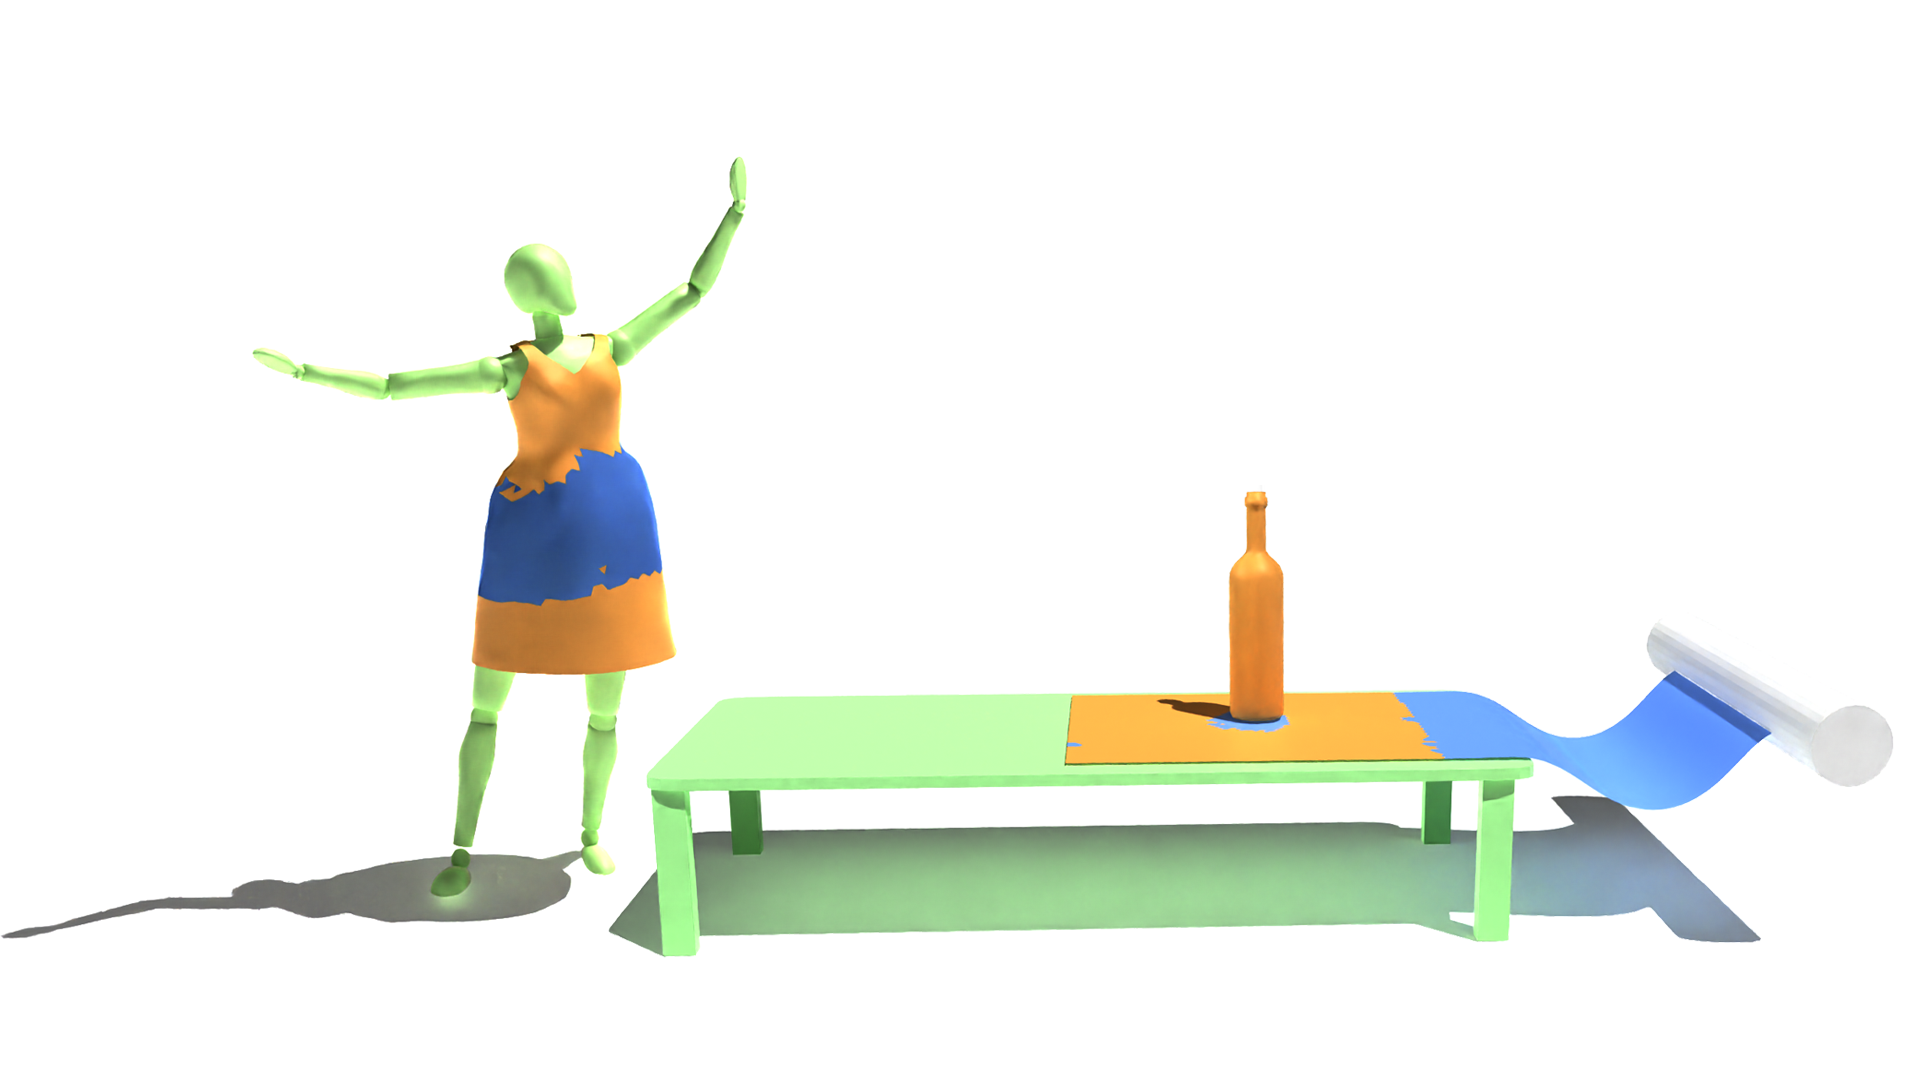
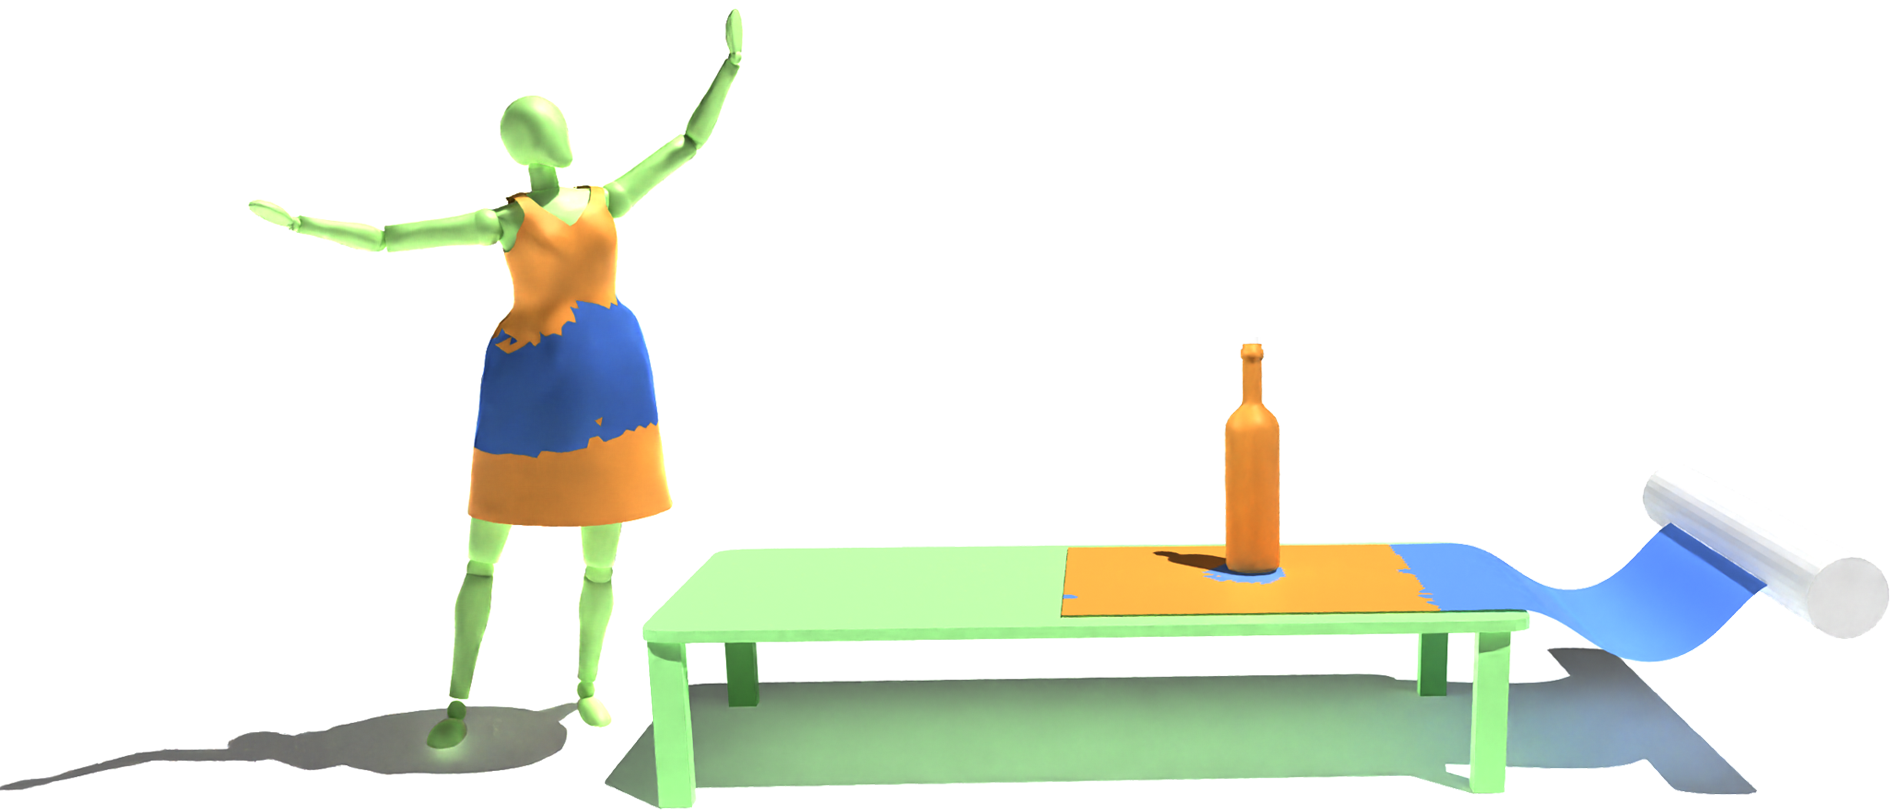
cropping the teaser image a little

diff --git a/_posts/2023-08-04-AdaptiveRigidificationShells.md b/_posts/2023-08-04-AdaptiveRigidificationShells.md
@@ -165,7 +165,7 @@ Our technique works like sleeping on static bodies, yet it really shines in scen
 
 ## Bibtex TODO: change it with the actual articleno once released
 ```
-@proceedings{10.1145/3528223.3530124,
+@proceedings{10.1145/3606932,
 author = {Mercier-Aubin, Alexandre and Kry, Paul G.},
 title = {Adaptive Rigidification of Discrete Shells},
 year = {2023},
@@ -174,7 +174,7 @@ publisher = {Association for Computing Machinery},
 address = {New York, NY, USA},
 volume = {6},
 number = {2},
-url = {https://dl.acm.org/doi/abs/10.1145/3528223.3530124},
+url = {https://dl.acm.org/doi/abs/10.1145/3606932},
 doi = {10.1145/3606932},
 abstract = {We present a method to improve the computation time of thin shell simulations by using adaptive rigidification to reduce the number of degrees of freedom. Our method uses a discretization independent metric for bending rates, and we derive a membrane strain rate to curvature rate equivalence that permits the use of a common threshold.
 To improve accuracy, we enhance the elastification oracle by considering both membrane and bending deformation to determine when to rigidify or elastify. Furthermore, we explore different approaches that are compatible with the previous work on adaptive rigidifcation and enhance the accuracy of the elastification on new contacts without increasing the computational overhead. Additionally, we propose a scaling approach that reduces the conditioning issues that arise from mixing rigid and elastic bodies in the same model.},
